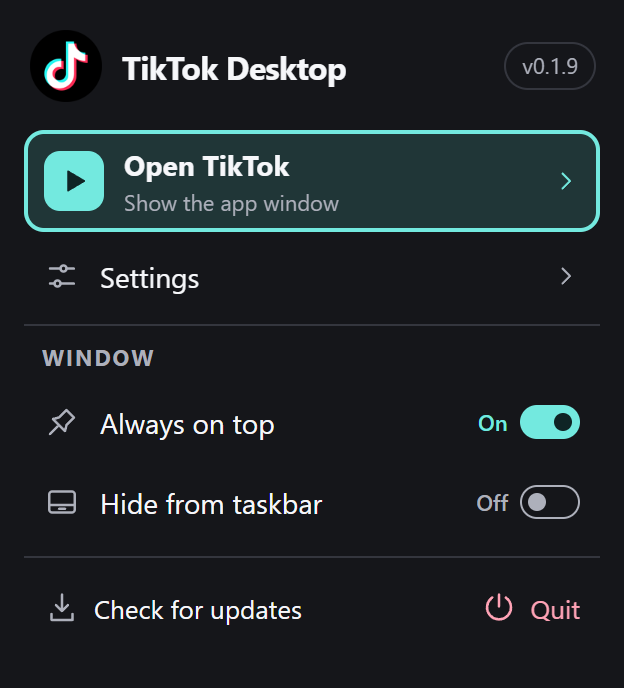
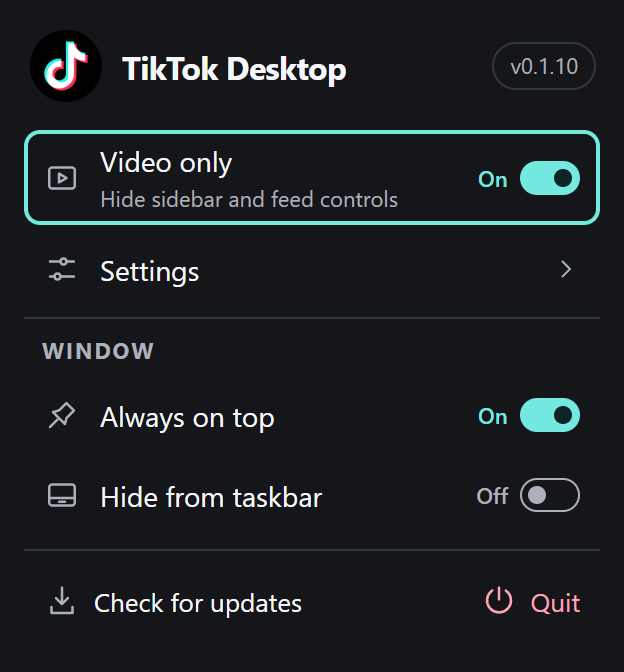
Add Video only to the tray and open TikTok on left-click

diff --git a/src/tray.html b/src/tray.html
@@ -10,7 +10,7 @@
 </head>
 <body>
 <svg class="symbols" xmlns="http://www.w3.org/2000/svg" aria-hidden="true">
-  <symbol id="play" viewBox="0 0 24 24"><path d="M8 5.5v13l11-6.5z"/></symbol>
+  <symbol id="video" viewBox="0 0 24 24"><rect x="3.5" y="5" width="17" height="14" rx="2"/><path d="m10 9 5 3-5 3z"/></symbol>
   <symbol id="chevron" viewBox="0 0 24 24"><path d="m10 6 6 6-6 6"/></symbol>
   <symbol id="sliders" viewBox="0 0 24 24"><path d="M4 7h7m4 0h5M4 17h3m4 0h9"/><circle cx="13" cy="7" r="2"/><circle cx="9" cy="17" r="2"/></symbol>
   <symbol id="pin" viewBox="0 0 24 24"><path d="m9 15-5 5m6-6-4-4 4-1 5-5 5 5-5 5-1 4z"/></symbol>
@@ -24,10 +24,10 @@
   <span class="version" id="version"></span>
 </header>
 <main role="menu" aria-labelledby="brand-name">
-  <button class="item primary" role="menuitem" data-action="open" tabindex="0">
-    <span class="play"><svg aria-hidden="true"><use href="#play"/></svg></span>
-    <span>Open TikTok<small>Show the app window</small></span>
-    <svg class="chevron" aria-hidden="true"><use href="#chevron"/></svg>
+  <button class="item" role="menuitemcheckbox" aria-checked="false" data-action="videoOnly" tabindex="0">
+    <svg aria-hidden="true"><use href="#video"/></svg>
+    <span>Video only<small>Hide sidebar and feed controls</small></span>
+    <span class="toggle" aria-hidden="true"><span>Off</span><i></i></span>
   </button>
   <button class="item settings" role="menuitem" data-action="settings" tabindex="-1">
     <svg aria-hidden="true"><use href="#sliders"/></svg><span>Settings</span>

diff --git a/src/main.ts b/src/main.ts
@@ -191,7 +191,9 @@ function update(patch: Partial<Settings>, display?: Partial<DisplaySettings>) {
     if (!settings) return;
     const next = { ...settings, ...patch, display: { ...settings.display, ...display } };
     try {
-      const restart = await tauri.invoke<boolean>("save_settings", { settings: next });
+      const restart = await tauri.invoke<boolean>("save_settings", {
+        settings: next, videoOnlyChanged: display?.videoOnly !== undefined,
+      });
       settings = { ...next, windowShortcut: settings.windowShortcut, shortcutActive: settings.shortcutActive };
       element("gpu-note").textContent = restart
         ? "Restart TikTok Desktop to apply this change."
@@ -258,6 +260,17 @@ element("cancel-logout").addEventListener("click", () => { confirmLogout.hidden 
 element("confirm-logout-button").addEventListener("click", () => void clearData(true));
 
 window.addEventListener("desktop-settings", () => void showSettings(true));
+window.addEventListener("desktop-video-only-changed", () => {
+  saveQueue = saveQueue.then(async () => {
+    try {
+      const current = await tauri.invoke<Settings>("get_settings");
+      if (settings) settings.display.videoOnly = current.display.videoOnly;
+      renderSettings();
+    } catch (error) {
+      report(error);
+    }
+  });
+});
 window.addEventListener("desktop-popup-blocked", () => {
   showNotice("This popup could not open. For TikTok sign-in, use a QR code.", true);
 });

diff --git a/src/tray.css b/src/tray.css
@@ -6,8 +6,6 @@
   --ink: #f6f7fa;
   --muted: #adb0bb;
   --accent: #73e9df;
-  --primary: #203637;
-  --primary-hover: #284648;
   --on-ink: #0f2425;
   --danger: #ffa3b6;
   font: 14px "Segoe UI Variable", "Segoe UI", sans-serif;
@@ -21,8 +19,6 @@
   --ink: #1d2026;
   --muted: #535967;
   --accent: #076b64;
-  --primary: #ddf5f0;
-  --primary-hover: #c8eee7;
   --on-ink: #fff;
   --danger: #9f2447;
 }
@@ -36,8 +32,6 @@
     --ink: #1d2026;
     --muted: #535967;
     --accent: #076b64;
-    --primary: #ddf5f0;
-    --primary-hover: #c8eee7;
     --on-ink: #fff;
     --danger: #9f2447;
   }
@@ -75,11 +69,6 @@ h1 { margin: 0; font-size: 16px; font-weight: 680; letter-spacing: -.018em; }
 .item .chevron { margin-inline-start: auto; width: 15px; }
 .item small { display: block; margin-top: 2px; color: var(--muted); font-size: 11px; font-weight: 400; }
 
-.primary { min-height: 51px; border-color: var(--line); border-radius: 10px; background: var(--primary); font-weight: 650; }
-.primary:hover { background: var(--primary-hover); }
-.primary .chevron { color: var(--accent); }
-.play { display: grid; place-items: center; width: 30px; height: 30px; border-radius: 8px; background: var(--accent); color: var(--on-ink); }
-.play svg { fill: currentColor; stroke-width: 1; }
 .settings { margin-top: 3px; min-height: 38px; }
 
 .window-options { margin-top: 5px; padding-top: 8px; border-top: 1px solid var(--line); }

diff --git a/src/tray.ts b/src/tray.ts
@@ -2,6 +2,7 @@ export {};
 
 interface TrayState {
   theme: "dark" | "light" | "system";
+  videoOnly: boolean;
   alwaysOnTop: boolean;
   hideFromTaskbar: boolean;
 }
@@ -34,7 +35,7 @@ document.querySelector("#version")!.textContent = "v" + trayBrand.version;
 function render(state: TrayState) {
   document.documentElement.dataset.theme = state.theme;
   for (const button of toggles) {
-    const key = button.dataset.action as "alwaysOnTop" | "hideFromTaskbar";
+    const key = button.dataset.action as "videoOnly" | "alwaysOnTop" | "hideFromTaskbar";
     button.setAttribute("aria-checked", String(state[key]));
     button.querySelector(".toggle span")!.textContent = state[key] ? "On" : "Off";
   }

diff --git a/src-tauri/src/tray.rs b/src-tauri/src/tray.rs
@@ -24,12 +24,12 @@ use windows::Win32::{
 
 const LABEL: &str = "tray-popup";
 const WIDTH: u32 = 312;
-const HEIGHT: u32 = 344;
+const HEIGHT: u32 = 336;
 
 #[derive(Deserialize)]
 #[serde(rename_all = "camelCase")]
 pub enum Action {
-    Open,
+    VideoOnly,
     Settings,
     AlwaysOnTop,
     HideFromTaskbar,
@@ -42,6 +42,7 @@ pub enum Action {
 #[serde(rename_all = "camelCase")]
 pub struct MenuState {
     theme: Theme,
+    video_only: bool,
     always_on_top: bool,
     hide_from_taskbar: bool,
 }
@@ -63,6 +64,7 @@ fn menu_state(app: &AppHandle) -> Result<MenuState, String> {
     let current = preferences.current.lock().map_err(error)?;
     Ok(MenuState {
         theme: current.theme,
+        video_only: current.display.video_only,
         always_on_top: current.always_on_top,
         hide_from_taskbar: current.hide_from_taskbar,
     })
@@ -100,6 +102,20 @@ pub fn tray_action(webview: Webview, action: Action) -> Result<MenuState, String
     match action {
         Action::Dismiss => popup.hide().map_err(error)?,
         Action::Quit => app.exit(0),
+        Action::VideoOnly => {
+            let preferences = app.state::<Preferences>();
+            let mut current = preferences.current.lock().map_err(error)?;
+            let mut next = *current;
+            next.display.video_only = !next.display.video_only;
+            settings::persist(&preferences.file, &next).map_err(error)?;
+            *current = next;
+            if let Some(shell) = app.get_webview(site::SHELL) {
+                let _ = shell.eval("window.dispatchEvent(new Event('desktop-video-only-changed'))");
+            }
+            if let Ok(view) = site::content(app) {
+                view.eval(site::display_script(next.display)).map_err(error)?;
+            }
+        }
         _ => {
             let window = app
                 .get_window("desktop")
@@ -108,7 +124,7 @@ pub fn tray_action(webview: Webview, action: Action) -> Result<MenuState, String
                 Action::AlwaysOnTop | Action::HideFromTaskbar => {
                     toggle_window_option(&window, action)?
                 }
-                Action::Open | Action::Settings | Action::Updates => {
+                Action::Settings | Action::Updates => {
                     popup.hide().map_err(error)?;
                     crate::show_window(&window);
                     if matches!(action, Action::Settings) {
@@ -233,17 +249,31 @@ pub fn install(
 
     TrayIconBuilder::with_id("tiktok-desktop")
         .icon(icon(app_icon::system_size(SM_CXSMICON))?)
-        .tooltip("TikTok Desktop")
+        .tooltip("TikTok Desktop · Left-click to open · Right-click for controls")
         .on_tray_icon_event(|tray, event| {
             if let TrayIconEvent::Click {
-                button: MouseButton::Left | MouseButton::Right,
+                button,
                 button_state: MouseButtonState::Up,
                 rect,
                 ..
             } = event
             {
-                if let Err(err) = show_popup(tray.app_handle(), rect) {
-                    eprintln!("Could not open tray menu: {err}");
+                let app = tray.app_handle();
+                match button {
+                    MouseButton::Left => {
+                        if let Some(popup) = app.get_webview_window(LABEL) {
+                            let _ = popup.hide();
+                        }
+                        if let Some(window) = app.get_window("desktop") {
+                            crate::show_window(&window);
+                        }
+                    }
+                    MouseButton::Right => {
+                        if let Err(err) = show_popup(app, rect) {
+                            eprintln!("Could not open tray menu: {err}");
+                        }
+                    }
+                    _ => {}
                 }
             }
         })

diff --git a/src-tauri/src/main.rs b/src-tauri/src/main.rs
@@ -131,6 +131,7 @@ fn save_settings(
     webview: Webview,
     preferences: State<Preferences>,
     mut settings: Settings,
+    video_only_changed: Option<bool>,
 ) -> Result<bool, String> {
     check_shell(&webview)?;
     if !(50..=175).contains(&settings.display.zoom_percent) {
@@ -141,6 +142,9 @@ fn save_settings(
         settings.always_on_top = current.always_on_top;
         settings.hide_from_taskbar = current.hide_from_taskbar;
         settings.window_shortcut = current.window_shortcut;
+        if video_only_changed == Some(false) {
+            settings.display.video_only = current.display.video_only;
+        }
         settings::persist(&preferences.file, &settings).map_err(error)?;
         *current = settings;
     }

diff --git a/README.md b/README.md
@@ -29,7 +29,7 @@
 
 - **Keep TikTok in a compact window.** Turn on **Video only** to hide the feed controls and details, or adjust them individually. The app remembers your window size and position.
 - **Control playback from another app.** Use the global shortcuts below while TikTok Desktop is running.
-- **Manage the window from the tray.** Right-click the TikTok icon to open Settings, keep the window on top, hide its taskbar button, or check for updates.
+- **Use the system tray.** Left-click the TikTok icon to open the app. Right-click for **Video only**, Settings, window controls, and updates.
 
 | Global shortcut | Action |
 | --- | --- |
